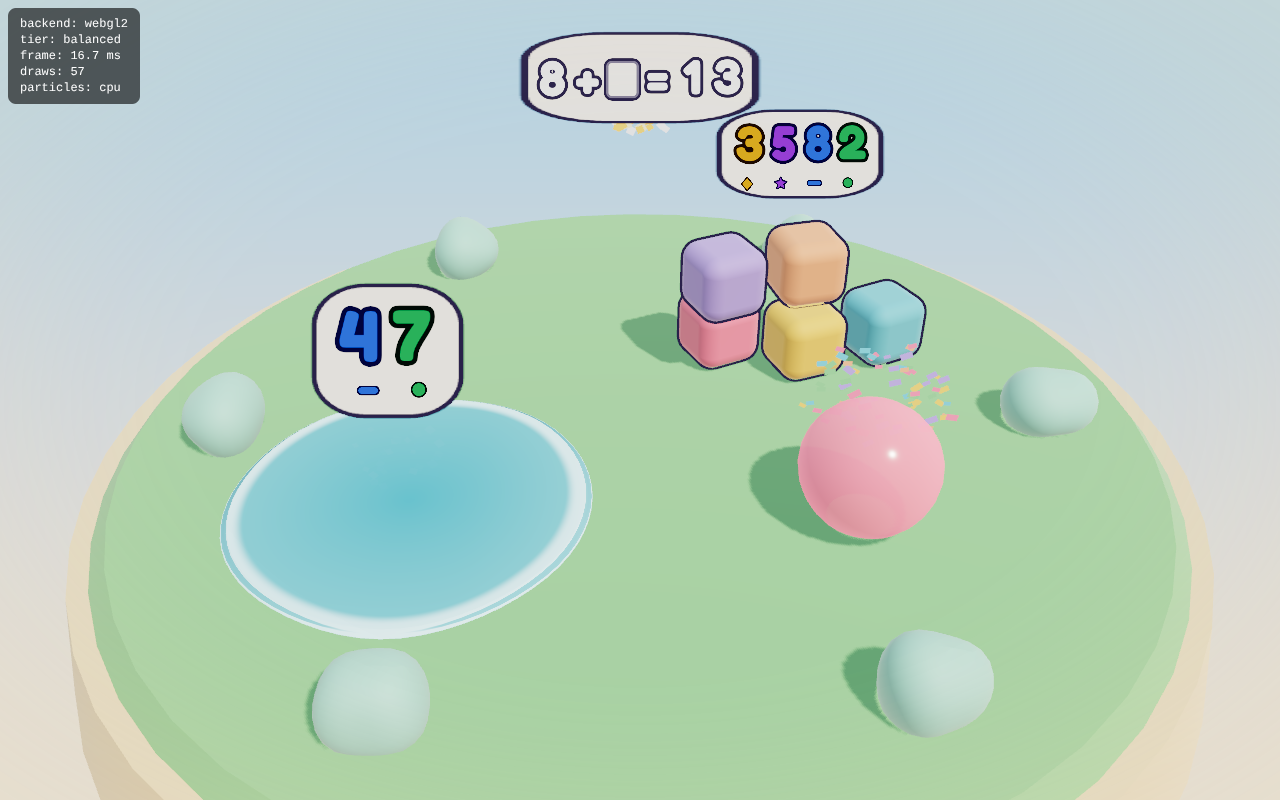
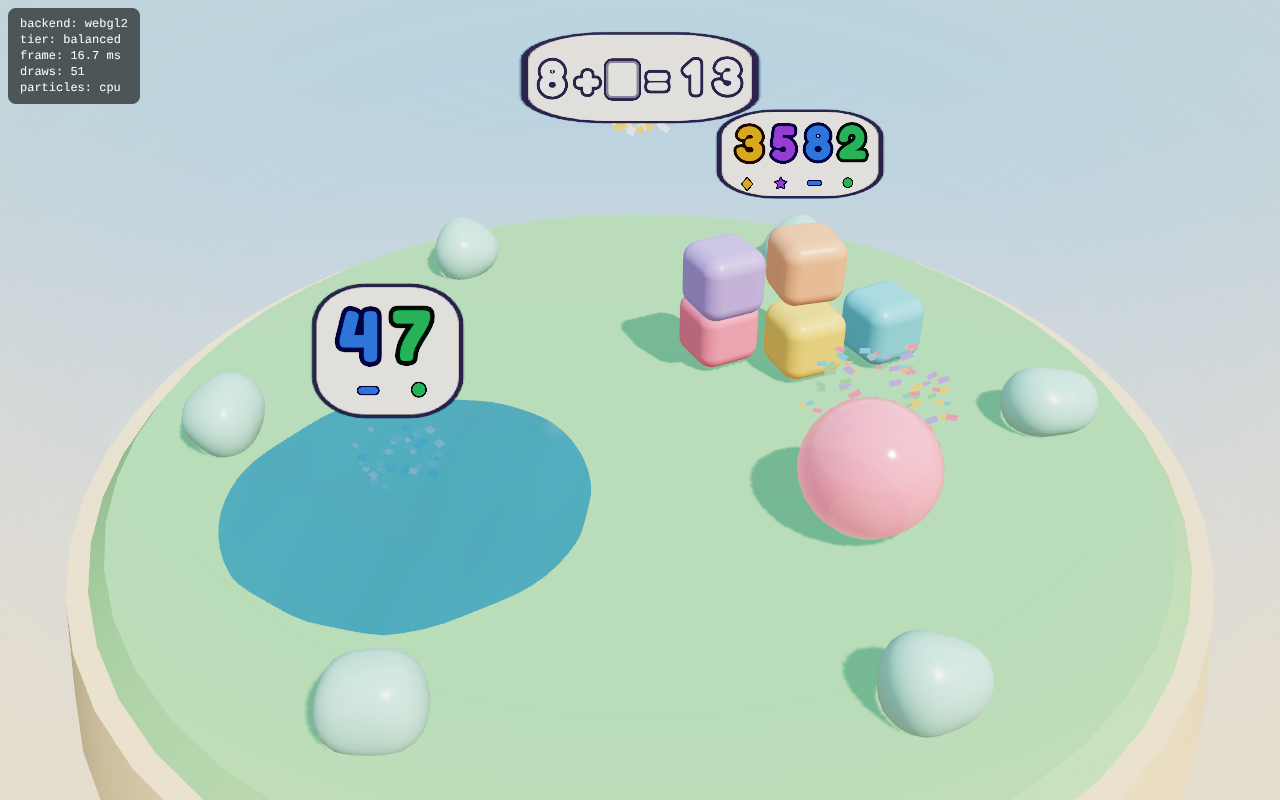
Stage e2e on the light tier so the latency guard measures code, not CPU rasterisation
Claude-Session: https://claude.ai/code/session_01PnKtNsdn1ybAuMuz4PHG6V

diff --git a/tests/e2e/stages.spec.ts b/tests/e2e/stages.spec.ts
@@ -1,13 +1,20 @@
 import { expect, test } from '@playwright/test';
 import { collectErrors, startFresh, throughPlacement, url } from './helpers';
 
+/**
+ * Functional stage tests run on the lightest tier: in this GPU-less CI every pixel is rasterised on the CPU,
+ * so the PBR/post tiers would turn the latency guard into a measure of SwiftShader speed. Visual quality per
+ * tier is checked separately (`pnpm shots`), real-device latency/FPS by `pnpm bench` (HUMAN).
+ */
+const STAGE_PATH = '/?tier=low';
+
 for (const stage of ['fishing', 'bomb', 'slime'] as const) {
   test(`[A1:${stage}] [G2:${stage}] round → result with stars, new thing, next goal`, async ({
     page,
   }, info) => {
     test.setTimeout(300_000);
     const errors = await collectErrors(page);
-    await startFresh(page, url(info, '/'));
+    await startFresh(page, url(info, STAGE_PATH));
     await throughPlacement(page);
     await page.evaluate((s) => {
       const st = (
@@ -66,7 +73,7 @@ for (const stage of ['fishing', 'bomb', 'slime'] as const) {
 }
 
 test('[G7] exit is always available mid-round (P10)', async ({ page }, info) => {
-  await startFresh(page, url(info, '/'));
+  await startFresh(page, url(info, STAGE_PATH));
   await throughPlacement(page);
   await page.getByTestId('start').click();
   await page.getByTestId('go').click();
@@ -77,7 +84,7 @@ test('[G7] exit is always available mid-round (P10)', async ({ page }, info) => 
 
 test('[G7] tutorial plays to the end by itself and unlocks input (no skip)', async ({ page }, info) => {
   test.setTimeout(180_000);
-  await startFresh(page, url(info, '/'));
+  await startFresh(page, url(info, STAGE_PATH));
   await throughPlacement(page);
   await page.getByTestId('start').click();
   await page.getByTestId('go').click();
@@ -92,7 +99,7 @@ test('[G7] tutorial plays to the end by itself and unlocks input (no skip)', asy
 test('[G7] keyboard H opens the hint panel; Escape closes it, then leaves the stage', async ({
   page,
 }, info) => {
-  await startFresh(page, url(info, '/'));
+  await startFresh(page, url(info, STAGE_PATH));
   await throughPlacement(page);
   await page.getByTestId('start').click();
   await page.getByTestId('go').click();
@@ -109,7 +116,7 @@ test('[E4] after hint 4 the new-numbers retry updates the goal shown to the chil
   page,
 }, info) => {
   test.setTimeout(180_000);
-  await startFresh(page, url(info, '/'));
+  await startFresh(page, url(info, STAGE_PATH));
   await throughPlacement(page);
   await page.getByTestId('start').click(); // fishing is the default selection
   await page.getByTestId('go').click();
